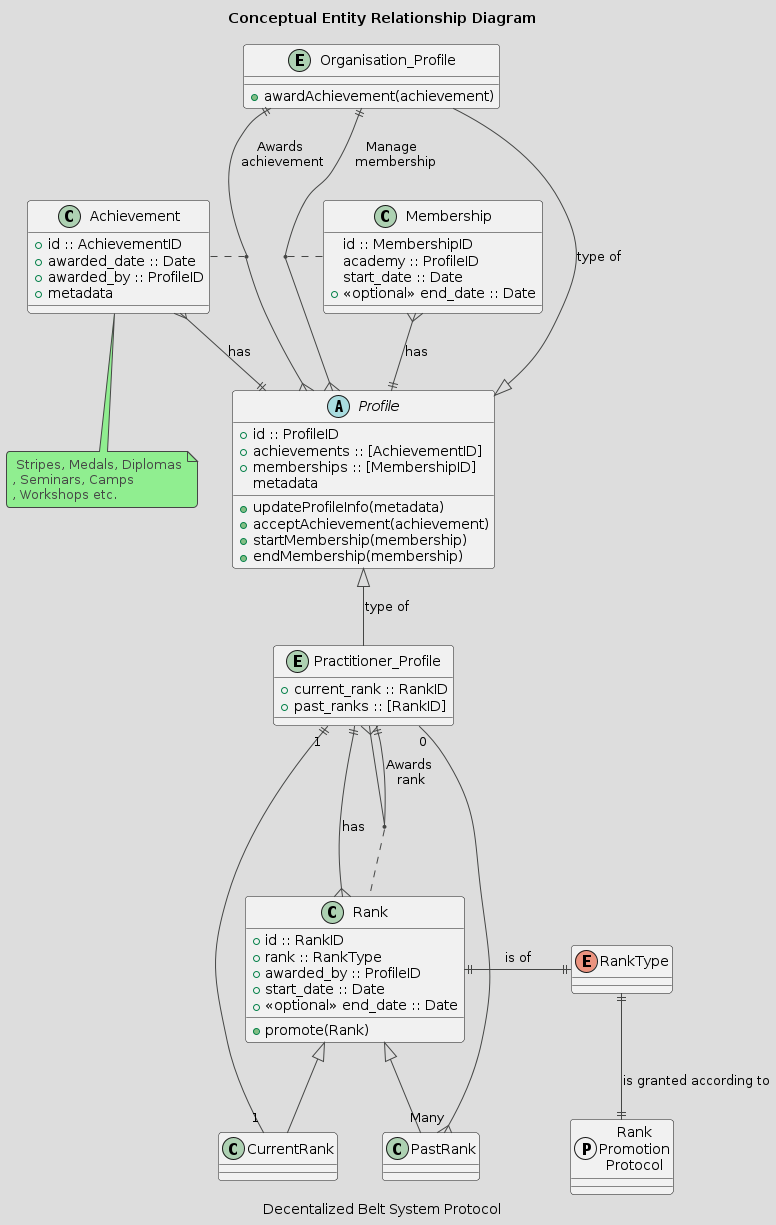
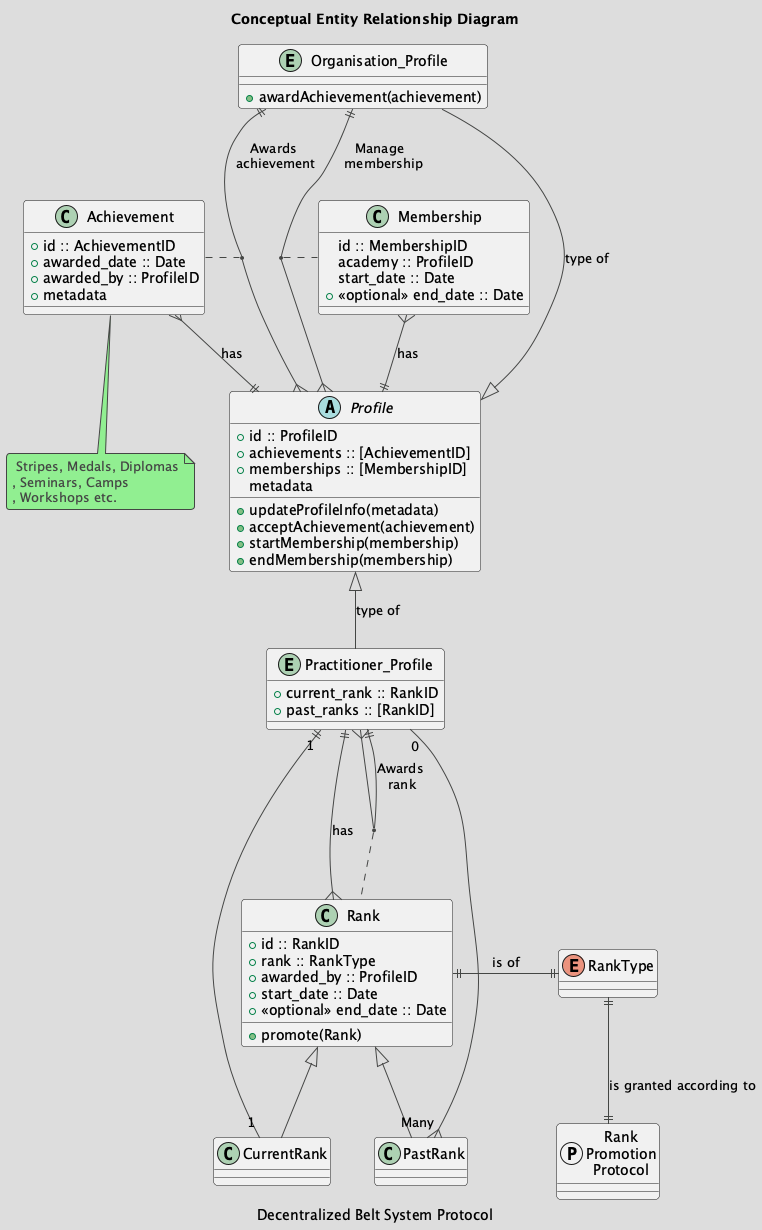
docs: Expand README/API/CLI, fix PUML typos, add regenerate_diagrams script

diff --git a/docs/Documentation.md b/docs/Documentation.md
@@ -64,12 +64,12 @@ The application described in this document (the **BJJ-DApp**) is a client that a
 
 ### 1.4 Definitions, Acronyms, and Abbreviations
 
-| Name    | Description |
-| -------- | ------- |
-| **DApp** | Decentralized Application |
+| Name     | Description                           |
+| -------- | ------------------------------------- |
+| **DApp** | Decentralized Application             |
 | **DAO**  | Decentralized Autonomous Organization |
-| **NFT**  |	Non-Fungible Token |
-| **UTxO**  |	Unspent Transaction Output |
+| **NFT**  | Non-Fungible Token                    |
+| **UTxO** | Unspent Transaction Output            |
 
 
 
@@ -116,9 +116,9 @@ The system seeks to:
 >   - **BJJ-DApp Frontend**: The web interface for practitioners, masters, and organizations.  
 >   - **3rd Party Browser Wallet** (e.g., Eternl, Lace): For signing transactions.
 > - **Backend**  
->   - **Interaction API Service**: Builds and submits transactions for promotions, achievements, membership. Requires HTTP Basic Auth. Swagger UI available at `/swagger-ui` (no auth).  
->   - **Query API Service**: Provides queries for profiles, promotions, and belts. Requires HTTP Basic Auth. Swagger UI available at `/swagger-ui` (no auth). Supports `?liveprojection=true` to read directly from chain vs projected DB.  
->   - **Chain Sync Service** : Monitors the Cardano blockchain and projects data into PostgreSQL.  
+>   - **Interaction API Service** (default port 8082): Builds and submits transactions for promotions, achievements, membership. Requires HTTP Basic Auth. Swagger UI available at `/swagger-ui` (no auth).  
+>   - **Query API Service** (default port 8083): Provides queries for profiles, promotions, achievements, and memberships. Requires HTTP Basic Auth. Swagger UI available at `/swagger-ui` (no auth). Supports `?liveprojection=true` to read directly from chain vs projected PostgreSQL DB.  
+>   - **Chain Sync Service**: Monitors the Cardano blockchain and projects data into PostgreSQL.  
 >     - Exposes a probe API: `GET /health`, `GET /ready` (default port 8084)
 >     - Health returns sync metrics including `chain_sync_state`
 >   - **Cardano Node**: Submits signed transactions to the Cardano network.
@@ -127,7 +127,7 @@ The system seeks to:
 >   - **webapi**: Web infrastructure (Auth, Health, CORS)
 >   - **chainsync**: Generic chain synchronization utilities  
 >   - **offchain**: Domain logic and supporting infrastructure
-> - **Persistence** : A database or index for quick lookups of ranks, achievements, memberships (off-chain).
+> - **Persistence**: A database or index for quick lookups of ranks, achievements, memberships (off-chain).
 > - **Immutability Principle**: Profiles are permanent by design. BJJ belt records are historical facts that preserve lineage integrity and cannot be deleted.
 
 
@@ -224,7 +224,7 @@ In the DAO phase all **core features** of the Legacy Phase remain available but 
 1. **Accept Redeemable Master Rank**  
    - **Goal**: Redeem a voucher to claim Master rank in the system.  
    - **Precondition**: Master has received a valid voucher. 
-   - **Postcondition**: He's practitioner profile is created with he's Master rank.
+   - **Postcondition**: His practitioner profile is created with his Master rank.
 
 2. **Promote Rank**  
    - **Goal**: Promote practitioners to higher ranks.  
@@ -253,9 +253,9 @@ In the DAO phase all **core features** of the Legacy Phase remain available but 
 
 ![Sequence-UpdateProfile](../out/puml/SequenceDiagram-UpdateProfile/UpdateProfile.png)
 
-3. **Accept Achievement** *(Not yet implemented)*  
-   - **Goal**: Accept an achievement (competition medals,diplomas etc.)  
-   - **Precondition**: Organization has awarded the achievement.  
+3. **Accept Achievement**  
+   - **Goal**: Accept an achievement (competition medals, diplomas, etc.).  
+   - **Precondition**: Organization (or Master) has awarded the achievement.  
    - **Postcondition**: Practitioner’s achievements list is updated.
   
 ![Sequence-Achievement](../out/puml/SequenceDiagram-Achievements/Achievements.png)
@@ -309,7 +309,7 @@ In the DAO phase all **core features** of the Legacy Phase remain available but 
    - **Postcondition**: Membership is marked as ended, with the end date on-chain.
 
 
-5. **Award Achievement** *(Not yet implemented)*  
+5. **Award Achievement**  
    - **Goal**: Grant achievements (seminars, camps, medals, etc.). 
    - **Precondition**: Organisation exists, member's profile exists. 
    - **Postcondition**: Practitioner’s achievement list is updated.
@@ -400,10 +400,10 @@ In the DAO phase all **core features** of the Legacy Phase remain available but 
      - Practitioner accepts the promotion.  
      - Rank record is updated on the practitioner’s profile.
 
-3. **Award Achievements** *(Not yet implemented)*  
+3. **Award Achievements**  
    - **As a master**, I want to award stripes or other achievements to students so their progress is recognized between belt promotions.  
    - **Acceptance Criteria**:  
-     - Master creates an achievement record.  
+     - Master (or organization) creates an achievement record.  
      - Practitioner confirms achievement.
 
 
@@ -431,11 +431,11 @@ In the DAO phase all **core features** of the Legacy Phase remain available but 
 5. **Accept Membership Request** *(Not yet implemented)*  
    - **As an organization**, I want to approve membership requests of practitioners so that they can officially be affiliated with my academy.  
    - **Acceptance Criteria**:  
-     - Membership is accepted by the organisation
+     - Membership is accepted by the organisation.
      - Membership details (start date, membership type) are added to the practitioner’s profile.
 
-6. **Award Achievements** *(Not yet implemented)*  
-   - **As an organization**, I want to grant achievements (eg. medals , diplomas) so that practitioners can record them.  
+6. **Award Achievements**  
+   - **As an organization**, I want to grant achievements (e.g. medals, diplomas) so that practitioners can record them.  
    - **Acceptance Criteria**:  
      - Organisation creates an achievement record.  
      - Practitioner confirms achievement.
@@ -448,14 +448,14 @@ This **Decentralized Belt System** aims to bring **trust, transparency, and sust
 
 
 > **Current Status**  
-> - **On-chain implementations complete**: Minting policy, profiles validator, ranks validator, memberships validator with full security review
-> - **Off-chain infrastructure complete**: Admin CLI, Interaction API, Query API, Chain Sync Service
-> - **Memberships fully implemented**: On-chain, off-chain, API, and tests
+> - **On-chain implementations complete**: Minting policy, profiles validator, ranks validator, memberships validator, achievements validator; Oracle for dynamic protocol parameters (fees, min UTxO, pause); full security review
+> - **Off-chain infrastructure complete**: Admin CLI, Interaction API (port 8082), Query API (port 8083), Chain Sync Service (port 8084)
+> - **Memberships and achievements fully implemented**: On-chain, off-chain, API, and tests
 > - **Testnet deployments available**: Scripts provided for testing (`populate_testnet.sh`, `test_black_promotes_white_to_blue.sh`)
 >
 > **Next Steps**  
 > - Finalize the BJJ Decentralized Belt System **Frontend Website**  
-> - Implement achievement features
+> - Implement practitioner-initiated membership request flow (organization grant + practitioner accept is already supported)
 > - Onboard pilot academies/masters to validate real-world usage
 
 **End of Document**

diff --git a/README.md b/README.md
@@ -7,8 +7,23 @@
   - [2. Key Features](#2-key-features)
   - [3. Architecture \& Components](#3-architecture--components)
   - [4. Project Structure](#4-project-structure)
+    - [4.1 Library Architecture](#41-library-architecture)
   - [5. Installation \& Setup](#5-installation--setup)
+  - [Prerequisites](#prerequisites)
+  - [5.1. Clone and Setup](#51-clone-and-setup)
+    - [5.2. Configure Atlas](#52-configure-atlas)
+    - [5.3. Configure Operation Key](#53-configure-operation-key)
+    - [5.4. Deploy validators](#54-deploy-validators)
   - [6. Usage](#6-usage)
+    - [6.1 Command Line Interface](#61-command-line-interface)
+    - [6.2 Testnet Scripts](#62-testnet-scripts)
+      - [**Test Script** - `scripts/test_black_promotes_white_to_blue.sh`](#test-script---scriptstest_black_promotes_white_to_bluesh)
+      - [**Population Script** - `scripts/populate_testnet.sh`](#population-script---scriptspopulate_testnetsh)
+    - [6.3 API Services](#63-api-services)
+      - [**Interaction API** (Port 8082)](#interaction-api-port-8082)
+      - [**Query API** (Port 8083)](#query-api-port-8083)
+    - [6.4 Executables \& Local Run](#64-executables--local-run)
+      - [**Chain Sync Probe** (Port 8084)](#chain-sync-probe-port-8084)
   - [7. License](#7-license)
   - [8. Contributions, Feedback and Support](#8-contributions-feedback-and-support)
   - [9. Future Milestones](#9-future-milestones)
@@ -48,8 +63,8 @@ The **Decentralized Belt System** aims to bring **transparency** and **trust** t
 
 
 
-For more details, see :  
-[Detailed Documentation](docs/Documentation.md)
+For more details, see [Detailed Documentation](docs/Documentation.md).  
+To regenerate diagram images after editing `puml/*.puml`, run `scripts/regenerate_diagrams.sh` (requires [PlantUML](https://plantuml.com/); e.g. `brew install plantuml`).
 
 ---
 
@@ -80,14 +95,19 @@ For more details, see :
 │   │   └── query-api/               # Data querying API
 │   └── test/                        # Test suites
 │       ├── TestRuns.hs              # Integration tests
-│       ├── UnitTests.hs             # Unit tests
+│       ├── UnitTests.hs             # Unit test entrypoint
+│       ├── UnitTests/               # Unit test modules (Achievement, Cleanup, Membership, Oracle, Promotion)
+│       ├── Test/                    # Fixtures and helpers
 │       └── BJJPropertyTests.hs      # Property-based tests
 ├── docs/                            # Documentation, specifications, diagrams
 ├── puml/                            # Plantuml diagrams
 ├── out/                             # Images of plantuml diagrams
 ├── scripts/                         # Test and utility scripts
 │   ├── test_black_promotes_white_to_blue.sh  # Core promotion test
-│   └── populate_testnet.sh          # Testnet data population
+│   ├── populate_testnet.sh          # Testnet data population
+│   ├── regenerate_diagrams.sh       # Regenerate PlantUML images (puml/ → out/puml/)
+│   ├── test_exunits.sh              # Execution units / cost testing
+│   └── build-images.sh              # Docker/image build
 └── README.md                        # This file
 ```
 
@@ -203,13 +223,26 @@ Available options:
   -h,--help                Show this help text
 
 Available commands:
-  deploy-reference-scripts Deploy reference scripts for the BJJ belt system
-  write-blueprint          Write the CIP-57 contract blueprint JSON to a file
-  init-profile             Initialize a new profile (White belt)
-  update-profile-image     Update profile image
-  promote-profile          Promote a profile to a new belt
-  accept-promotion         Accept a promotion
-  create-profile-with-rank Create a profile with initial rank (for masters)
+  deploy-reference-scripts   Deploy reference scripts for the BJJ belt system
+  write-blueprint            Write the CIP-57 contract blueprint JSON to a file
+  pause-protocol             Pause the protocol (oracle opPaused = True)
+  unpause-protocol           Unpause the protocol
+  set-fees                   Set or clear fee configuration in the oracle
+  set-min-utxo-value         Set minimum UTxO value (lovelace) for protocol state outputs
+  query-oracle               Display current oracle parameters (read-only)
+  init-profile               Initialize a new profile (White belt)
+  update-profile-image       Update profile image
+  promote-profile            Promote a profile to a new belt
+  accept-promotion           Accept a promotion
+  create-profile-with-rank   Create a profile with initial rank (for masters)
+  create-membership-history  Create a membership history for a practitioner at an organization
+  get-first-interval-id      Get first membership interval ID for a history node
+  add-membership-interval    Add a membership interval to an existing history
+  accept-membership-interval Accept a membership interval (practitioner acknowledges)
+  update-end-date            Update membership interval end date
+  award-achievement          Award an achievement to a practitioner
+  accept-achievement         Accept an achievement (practitioner acknowledges)
+  cleanup-dust               Sweep dust/griefing UTxOs from validator addresses (permissionless)
 ```
 
 > **Note**: Profile deletion is intentionally not supported. BJJ belt records are permanent historical facts that preserve lineage integrity.
@@ -260,9 +293,11 @@ The system provides two independent API services:
 - **Authentication**: All endpoints require HTTP Basic Auth. Defaults: `BASIC_USER=cardano`, `BASIC_PASS=lovelace` (override via env).
 
 #### **Query API** (Port 8083)  
-- **Profiles**: `GET /practitioner/{id}`, `GET /organization/{id}`, `GET /profiles`
-- **Promotions**: `GET /promotions` - Query pending promotions
+- **Profiles**: `GET /practitioner/{id}`, `GET /organization/{id}`, `GET /profiles`, `GET /profiles/count`, `GET /profiles/frequency`
+- **Promotions**: `GET /promotions`, `GET /promotions/count`
 - **Belts**: `GET /belts`, `GET /belts/count`, `GET /belts/frequency`
+- **Memberships**: `GET /membership-histories`, `GET /membership-histories/count`, `GET /membership-intervals`, `GET /membership-intervals/count`
+- **Achievements**: `GET /achievements`, `GET /achievements/count`
 - **Swagger UI**: `http://localhost:8083/swagger-ui/`
 - **Authentication**: All endpoints require HTTP Basic Auth (same defaults). Swagger UI is public.
 - **Projection mode**: add `?liveprojection=true` to query live data; otherwise the projected SQLite DB is used. Standard `limit`, `offset`, filter params are available per Swagger.
